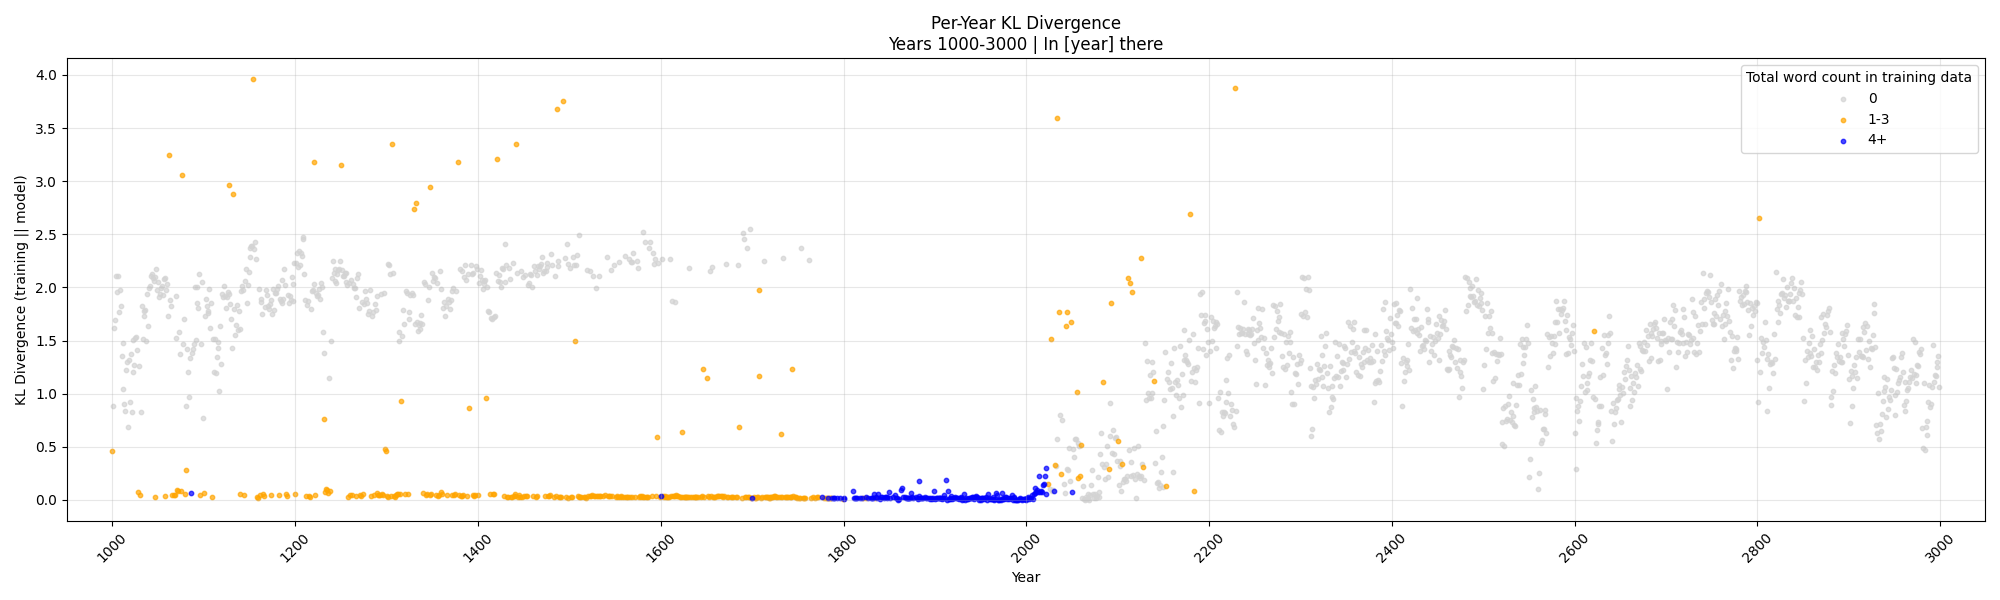
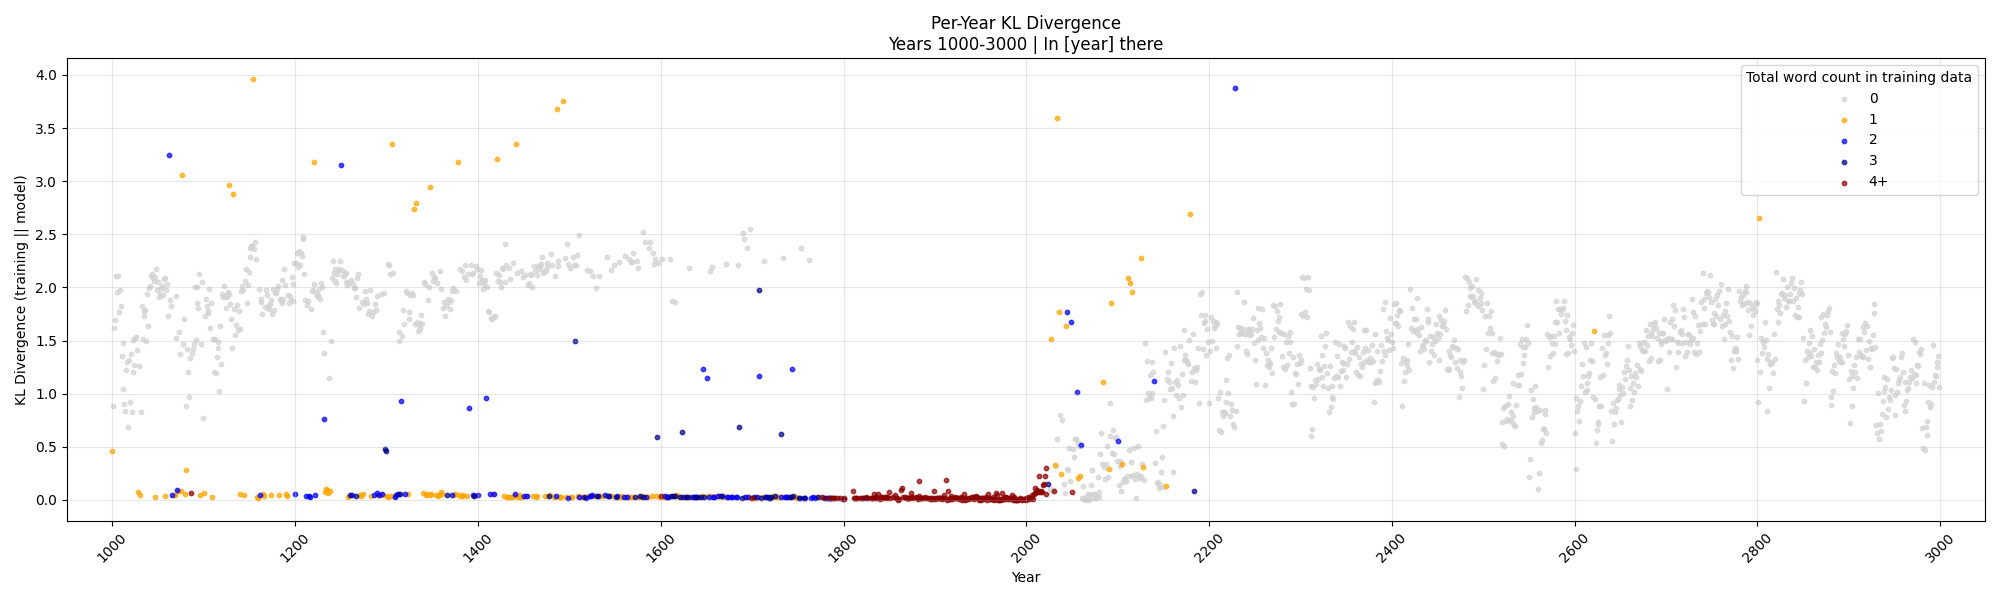
(disregard plots) looking at fallbacks now!

Changed region(s): [[0.124, 0.78, 0.527, 0.84], [0.93, 0.3, 0.961, 0.33]]

diff --git a/discover_fallback_distributions.py b/discover_fallback_distributions.py
@@ -1,0 +1,274 @@
+import json
+import scipy.stats
+
+OLMO_PREDICTIONS_PATH = "../olmo_predictions/1000-3000__was.were.is.are.will__suzeva_olmo2-1b-4xH100-2ndtry-step-10000__In_[year]_there/olmo_predictions.json"
+OLMO_TRAINING_DATA_FILE = "../olmo_training_data/1000-3000__was.were.is.are.will__allenai_OLMo-2-0425-1B/aggregated/steps0-10000/analytics/1000-3000__was.were.is.are.will__aggregated_results_steps0-10000.json"
+
+
+class KLDivergenceCaluclator:
+    def __init__(self):
+        self.OOD_years = [1001, 1002, 1003, 1004, 1005, 1006, 1007, 1008, 1009, 1010, 1011, 1012, 1013, 1014, 1015, 1016, 1017, 1018, 1019, 1020, 1021, 1022, 1023, 1024, 1025, 1026, 1027, 1029, 1031, 1032, 1033, 1034, 1035, 1036, 1037, 1038, 1039, 1040, 1041, 1042, 1043, 1044, 1045, 1046, 1048, 1049, 1050, 1051, 1052, 1053, 1054, 1055, 1056, 1058, 1059, 1060, 1061, 1063, 1064, 1069, 1070, 1073, 1074, 1077, 1078, 1080, 1082, 1083, 1084, 1085, 1087, 1088, 1089, 1090, 1091, 1092, 1093, 1094, 1095, 1097, 1098, 1099, 1101, 1102, 1103, 1104, 1105, 1106, 1107, 1108, 1110, 1111, 1112, 1113, 1114, 1115, 1116, 1117, 1118, 1119, 1120, 1121, 1122, 1123, 1124, 1125, 1126, 1128, 1129, 1130, 1131, 1133, 1134, 1135, 1136, 1137, 1138, 1139, 1141, 1142, 1143, 1145, 1146, 1147, 1148, 1149, 1150, 1151, 1152, 1153, 1155, 1156, 1157, 1160, 1162, 1163, 1164, 1167, 1168, 1169, 1170, 1171, 1172, 1173, 1175, 1176, 1177, 1178, 1179, 1180, 1181, 1183, 1184, 1185, 1186, 1187, 1188, 1189, 1192, 1193, 1194, 1195, 1196, 1197, 1198, 1199, 1201, 1202, 1203, 1204, 1205, 1206, 1207, 1208, 1209, 1210, 1211, 1213, 1214, 1217, 1218, 1219, 1221, 1223, 1224, 1225, 1226, 1227, 1228, 1229, 1230, 1231, 1237, 1239, 1240, 1241, 1242, 1243, 1244, 1245, 1246, 1247, 1248, 1249, 1251, 1252, 1253, 1254, 1255, 1256, 1257, 1259, 1261, 1263, 1264, 1265, 1267, 1268, 1269, 1270, 1273, 1275, 1276, 1277, 1278, 1280, 1281, 1282, 1284, 1285, 1287, 1288, 1289, 1294, 1297, 1301, 1303, 1304, 1307, 1313, 1314, 1317, 1318, 1319, 1321, 1322, 1324, 1325, 1326, 1328, 1329, 1331, 1333, 1334, 1335, 1336, 1337, 1338, 1339, 1341, 1342, 1345, 1346, 1350, 1351, 1352, 1353, 1355, 1358, 1359, 1362, 1363, 1364, 1365, 1367, 1368, 1369, 1370, 1372, 1373, 1376, 1380, 1383, 1385, 1386, 1387, 1389, 1392, 1393, 1395, 1398, 1399, 1401, 1402, 1403, 1404, 1405, 1406, 1407, 1408, 1410, 1411, 1412, 1414, 1415, 1417, 1419, 1420, 1422, 1423, 1424, 1425, 1426, 1427, 1429, 1430, 1431, 1434, 1435, 1438, 1443, 1447, 1449, 1451, 1455, 1456, 1457, 1458, 1459, 1461, 1462, 1465, 1466, 1467, 1468, 1469, 1470, 1471, 1472, 1474, 1475, 1476, 1480, 1481, 1484, 1487, 1488, 1495, 1497, 1499, 1501, 1504, 1505, 1507, 1508, 1510, 1519, 1523, 1526, 1529, 1532, 1541, 1546, 1549, 1554, 1561, 1565, 1567, 1569, 1570, 1574, 1575, 1581, 1583, 1587, 1588, 1591, 1593, 1594, 1597, 1601, 1610, 1612, 1615, 1631, 1654, 1656, 1671, 1684, 1690, 1691, 1694, 1698, 1713, 1734, 1753, 1762, 2026, 2028, 2029, 2032, 2033, 2037, 2039, 2041, 2042, 2044, 2046, 2047, 2048, 2051, 2052, 2053, 2054, 2056, 2058, 2061, 2062, 2063, 2064, 2065, 2066, 2067, 2068, 2069, 2070, 2071, 2072, 2073, 2074, 2075, 2076, 2077, 2078, 2079, 2080, 2081, 2082, 2083, 2085, 2086, 2087, 2088, 2089, 2091, 2092, 2094, 2095, 2096, 2097, 2098, 2099, 2101, 2102, 2103, 2104, 2106, 2107, 2108, 2109, 2110, 2112, 2114, 2115, 2117, 2118, 2119, 2120, 2121, 2122, 2123, 2124, 2126, 2127, 2129, 2130, 2131, 2132, 2133, 2134, 2135, 2136, 2137, 2138, 2139, 2141, 2142, 2143, 2144, 2145, 2146, 2147, 2148, 2149, 2150, 2151, 2152, 2154, 2155, 2156, 2157, 2158, 2159, 2160, 2161, 2162, 2163, 2164, 2165, 2166, 2167, 2168, 2169, 2170, 2171, 2172, 2173, 2174, 2175, 2176, 2177, 2178, 2180, 2181, 2182, 2184, 2185, 2186, 2187, 2188, 2189, 2190, 2191, 2192, 2193, 2194, 2195, 2196, 2197, 2198, 2199, 2200, 2201, 2202, 2203, 2204, 2205, 2206, 2207, 2208, 2209, 2210, 2211, 2212, 2213, 2214, 2215, 2216, 2217, 2218, 2219, 2220, 2221, 2222, 2223, 2224, 2225, 2226, 2227, 2229, 2230, 2231, 2232, 2233, 2234, 2235, 2236, 2237, 2238, 2239, 2240, 2241, 2242, 2243, 2244, 2245, 2246, 2247, 2248, 2249, 2250, 2251, 2252, 2253, 2254, 2255, 2256, 2257, 2258, 2259, 2260, 2261, 2262, 2263, 2264, 2265, 2266, 2267, 2268, 2269, 2270, 2271, 2272, 2273, 2274, 2275, 2276, 2277, 2278, 2279, 2280, 2281, 2282, 2283, 2284, 2285, 2286, 2287, 2288, 2289, 2290, 2291, 2292, 2293, 2294, 2295, 2296, 2297, 2298, 2299, 2300, 2301, 2302, 2303, 2304, 2305, 2306, 2307, 2308, 2309, 2310, 2311, 2312, 2313, 2314, 2315, 2316, 2317, 2318, 2319, 2320, 2321, 2322, 2323, 2324, 2325, 2326, 2327, 2328, 2329, 2330, 2331, 2332, 2333, 2334, 2335, 2336, 2337, 2338, 2339, 2340, 2341, 2342, 2343, 2344, 2345, 2346, 2347, 2348, 2349, 2350, 2351, 2352, 2353, 2354, 2355, 2356, 2357, 2358, 2359, 2360, 2361, 2362, 2363, 2364, 2365, 2366, 2367, 2368, 2369, 2370, 2371, 2372, 2373, 2374, 2375, 2376, 2377, 2378, 2379, 2380, 2381, 2382, 2383, 2384, 2385, 2386, 2387, 2388, 2389, 2390, 2391, 2392, 2393, 2394, 2395, 2396, 2397, 2398, 2399, 2400, 2401, 2402, 2403, 2404, 2405, 2406, 2407, 2408, 2409, 2410, 2411, 2412, 2413, 2414, 2415, 2416, 2417, 2418, 2419, 2420, 2421, 2422, 2423, 2424, 2425, 2426, 2427, 2428, 2429, 2430, 2431, 2432, 2433, 2434, 2435, 2436, 2437, 2438, 2439, 2440, 2441, 2442, 2443, 2444, 2445, 2446, 2447, 2448, 2449, 2450, 2451, 2452, 2453, 2454, 2455, 2456, 2457, 2458, 2459, 2460, 2461, 2462, 2463, 2464, 2465, 2466, 2467, 2468, 2469, 2470, 2471, 2472, 2473, 2474, 2475, 2476, 2477, 2478, 2479, 2480, 2481, 2482, 2483, 2484, 2485, 2486, 2487, 2488, 2489, 2490, 2491, 2492, 2493, 2494, 2495, 2496, 2497, 2498, 2499, 2500, 2501, 2502, 2503, 2504, 2505, 2506, 2507, 2508, 2509, 2510, 2511, 2512, 2513, 2514, 2515, 2516, 2517, 2518, 2519, 2520, 2521, 2522, 2523, 2524, 2525, 2526, 2527, 2528, 2529, 2530, 2531, 2532, 2533, 2534, 2535, 2536, 2537, 2538, 2539, 2540, 2541, 2542, 2543, 2544, 2545, 2546, 2547, 2548, 2549, 2550, 2551, 2552, 2553, 2554, 2555, 2556, 2557, 2558, 2559, 2560, 2561, 2562, 2563, 2564, 2565, 2566, 2567, 2568, 2569, 2570, 2571, 2572, 2573, 2574, 2575, 2576, 2577, 2578, 2579, 2580, 2581, 2582, 2583, 2584, 2585, 2586, 2587, 2588, 2589, 2590, 2591, 2592, 2593, 2594, 2595, 2596, 2597, 2598, 2599, 2600, 2601, 2602, 2603, 2604, 2605, 2606, 2607, 2608, 2609, 2610, 2611, 2612, 2613, 2614, 2615, 2616, 2617, 2618, 2619, 2620, 2622, 2623, 2624, 2625, 2626, 2627, 2628, 2629, 2630, 2631, 2632, 2633, 2634, 2635, 2636, 2637, 2638, 2639, 2640, 2641, 2642, 2643, 2644, 2645, 2646, 2647, 2648, 2649, 2650, 2651, 2652, 2653, 2654, 2655, 2656, 2657, 2658, 2659, 2660, 2661, 2662, 2663, 2664, 2665, 2666, 2667, 2668, 2669, 2670, 2671, 2672, 2673, 2674, 2675, 2676, 2677, 2678, 2679, 2680, 2681, 2682, 2683, 2684, 2685, 2686, 2687, 2688, 2689, 2690, 2691, 2692, 2693, 2694, 2695, 2696, 2697, 2698, 2699, 2700, 2701, 2702, 2703, 2704, 2705, 2706, 2707, 2708, 2709, 2710, 2711, 2712, 2713, 2714, 2715, 2716, 2717, 2718, 2719, 2720, 2721, 2722, 2723, 2724, 2725, 2726, 2727, 2728, 2729, 2730, 2731, 2732, 2733, 2734, 2735, 2736, 2737, 2738, 2739, 2740, 2741, 2742, 2743, 2744, 2745, 2746, 2747, 2748, 2749, 2750, 2751, 2752, 2753, 2754, 2755, 2756, 2757, 2758, 2759, 2760, 2761, 2762, 2763, 2764, 2765, 2766, 2767, 2768, 2769, 2770, 2771, 2772, 2773, 2774, 2775, 2776, 2777, 2778, 2779, 2780, 2781, 2782, 2783, 2784, 2785, 2786, 2787, 2788, 2789, 2790, 2791, 2792, 2793, 2794, 2795, 2796, 2797, 2798, 2799, 2800, 2801, 2803, 2804, 2805, 2806, 2807, 2808, 2809, 2810, 2811, 2812, 2813, 2814, 2815, 2816, 2817, 2818, 2819, 2820, 2821, 2822, 2823, 2824, 2825, 2826, 2827, 2828, 2829, 2830, 2831, 2832, 2833, 2834, 2835, 2836, 2837, 2838, 2839, 2840, 2841, 2842, 2843, 2844, 2845, 2846, 2847, 2848, 2849, 2850, 2851, 2852, 2853, 2854, 2855, 2856, 2857, 2858, 2859, 2860, 2861, 2862, 2863, 2864, 2865, 2866, 2867, 2868, 2869, 2870, 2871, 2872, 2873, 2874, 2875, 2876, 2877, 2878, 2879, 2880, 2881, 2882, 2883, 2884, 2885, 2886, 2887, 2888, 2889, 2890, 2891, 2892, 2893, 2894, 2895, 2896, 2897, 2898, 2899, 2900, 2901, 2902, 2903, 2904, 2905, 2906, 2907, 2908, 2909, 2910, 2911, 2912, 2913, 2914, 2915, 2916, 2917, 2918, 2919, 2920, 2921, 2922, 2923, 2924, 2925, 2926, 2927, 2928, 2929, 2930, 2931, 2932, 2933, 2934, 2935, 2936, 2937, 2938, 2939, 2940, 2941, 2942, 2943, 2944, 2945, 2946, 2947, 2948, 2949, 2950, 2951, 2952, 2953, 2954, 2955, 2956, 2957, 2958, 2959, 2960, 2961, 2962, 2963, 2964, 2965, 2966, 2967, 2968, 2969, 2970, 2971, 2972, 2973, 2974, 2975, 2976, 2977, 2978, 2979, 2980, 2981, 2982, 2983, 2984, 2985, 2986, 2987, 2988, 2989, 2990, 2991, 2992, 2993, 2994, 2995, 2996, 2997, 2998, 2999]
+        self.ID_years = set(range(1000, 3000)) - set(self.OOD_years)
+
+        with open(OLMO_PREDICTIONS_PATH, "r") as f:
+            self.olmo_predictions = json.load(f)
+        self.relative_olmo_predictions = self._get_relative_olmo_predictions()
+
+    # START OF HELPER FUNCTIONS
+
+    def _get_relative_olmo_predictions(self):
+        year_to_relative_predictions = {}
+        for year in self.olmo_predictions.keys():
+            if year == "metadata":
+                continue
+            
+            relative_predictions = self.olmo_predictions[year]["relative"]
+            past = relative_predictions[" was"] + relative_predictions[" were"]
+            present = relative_predictions[" is"] + relative_predictions[" are"]
+            future = relative_predictions[" will"]
+
+            year_to_relative_predictions[year] = {
+                "past": past,
+                "present": present,
+                "future": future
+            }
+        
+        return year_to_relative_predictions
+
+    def _calculate_kl_divergence_for_years(self, years_to_use, training_data_distributions):
+        """Helper function to calculate KL divergence for a given set of years"""
+        years_used = set()
+        kl_divergences = []
+        
+        for year in years_to_use:
+            assert year in training_data_distributions
+            training_data_distribution = training_data_distributions[year]
+            assert all(tense in training_data_distribution for tense in ["past", "present", "future"])
+            
+            if training_data_distribution["past"] + training_data_distribution["present"] + training_data_distribution["future"] == 0:
+                # skip years that we do not have data to compare to
+                continue
+
+            years_used.add(year)
+            
+            assert str(year) in self.relative_olmo_predictions
+            olmo_prediction_distribution = self.relative_olmo_predictions[str(year)]
+
+            kl_div_for_year = scipy.stats.entropy(
+                [training_data_distribution["past"], training_data_distribution["present"], training_data_distribution["future"]], 
+                [olmo_prediction_distribution["past"], olmo_prediction_distribution["present"], olmo_prediction_distribution["future"]]
+            )
+            kl_divergences.append(kl_div_for_year)
+        
+        assert len(kl_divergences) == len(years_used)
+        return sum(kl_divergences) / len(kl_divergences) if len(kl_divergences) != 0 else 0, years_used
+
+    def calculate_kl_divergence(self, training_data_distributions):
+        # calculate separate KL divergences for ID/OOD; only calculate if training data has any relative probabilities
+
+        # ID KL divergence
+        id_avg_kl, id_years_used = self._calculate_kl_divergence_for_years(self.ID_years, training_data_distributions)
+        
+        # OOD KL divergence  
+        ood_avg_kl, ood_years_used = self._calculate_kl_divergence_for_years(self.OOD_years, training_data_distributions)
+        
+        return {
+            'id_avg_kl': id_avg_kl,
+            'id_years_used': id_years_used,
+            'ood_avg_kl': ood_avg_kl, 
+            'ood_years_used': ood_years_used
+        }
+
+    # END OF HELPER FUNCTIONS
+
+    # START OF FALLBACK DISTRIBUTIONS OPTIONS
+    def co_occurrence_fallback(self):
+        with open(OLMO_TRAINING_DATA_FILE, "r") as f:
+            olmo_training_data = json.load(f)
+        
+        year_to_relative_counts = {}
+        relative_counts = olmo_training_data["co_occurrence_frequency_word_boundaries"]
+        for year in relative_counts.keys():
+            counts_per_year = relative_counts[year]
+            total_be_tense_counts = counts_per_year.get("was", 0) + counts_per_year.get("were", 0) + counts_per_year.get("is", 0) + counts_per_year.get("are", 0) + counts_per_year.get("will", 0)
+            if total_be_tense_counts == 0:
+                year_to_relative_counts[int(year)] = {
+                    "past": 0,
+                    "present": 0,
+                    "future": 0
+                }
+                continue
+
+            past = (counts_per_year.get("was", 0) + counts_per_year.get("were", 0)) / total_be_tense_counts
+            present = (counts_per_year.get("is", 0) + counts_per_year.get("are", 0)) / total_be_tense_counts
+            future = counts_per_year.get("will", 0) / total_be_tense_counts
+
+            year_to_relative_counts[int(year)] = {
+                "past": past,
+                "present": present,
+                "future": future
+            }
+        
+        return self.calculate_kl_divergence(year_to_relative_counts)
+
+    def avg_co_occurrence_fallback(self):
+        with open(OLMO_TRAINING_DATA_FILE, "r") as f:
+            olmo_training_data = json.load(f)
+
+
+        avg_relative_counts = {
+            "past": 0,
+            "present": 0,
+            "future": 0
+        }
+        relative_counts = olmo_training_data["co_occurrence_frequency_word_boundaries"]
+        for year in relative_counts.keys():
+            counts_per_year = relative_counts[year]
+            avg_relative_counts["past"] += counts_per_year.get("was", 0) + counts_per_year.get("were", 0)
+            avg_relative_counts["present"] += counts_per_year.get("is", 0) + counts_per_year.get("are", 0)
+            avg_relative_counts["future"] += counts_per_year.get("will", 0)
+
+        avg_year_to_relative_counts = {year:avg_relative_counts for year in range(1000, 3000)}
+        return self.calculate_kl_divergence(avg_year_to_relative_counts)
+
+
+
+
+
+
+    def exact_string_matching_fallback(self):
+        with open(OLMO_TRAINING_DATA_FILE, "r") as f:
+            olmo_training_data = json.load(f)
+        
+        year_to_relative_counts = {}
+        relative_counts = olmo_training_data["in_year_there_word_counts"]
+        for year in relative_counts.keys():
+            counts_per_year = relative_counts[year]
+            total_be_tense_counts = counts_per_year.get("was", 0) + counts_per_year.get("were", 0) + counts_per_year.get("is", 0) + counts_per_year.get("are", 0) + counts_per_year.get("will", 0)
+            if total_be_tense_counts == 0:
+                year_to_relative_counts[int(year)] = {
+                    "past": 0,
+                    "present": 0,
+                    "future": 0
+                }
+                continue
+
+            past = (counts_per_year.get("was", 0) + counts_per_year.get("were", 0)) / total_be_tense_counts
+            present = (counts_per_year.get("is", 0) + counts_per_year.get("are", 0)) / total_be_tense_counts
+            future = counts_per_year.get("will", 0) / total_be_tense_counts
+
+            year_to_relative_counts[int(year)] = {
+                "past": past,
+                "present": present,
+                "future": future
+            }
+        
+        return self.calculate_kl_divergence(year_to_relative_counts)
+
+    def avg_exact_string_matching_fallback(self):
+        with open(OLMO_TRAINING_DATA_FILE, "r") as f:
+            olmo_training_data = json.load(f)
+
+        avg_relative_counts = {
+            "past": 0,
+            "present": 0,
+            "future": 0
+        }
+        relative_counts = olmo_training_data["in_year_there_word_counts"]
+        for year in relative_counts.keys():
+            counts_per_year = relative_counts[year]
+            avg_relative_counts["past"] += counts_per_year.get("was", 0) + counts_per_year.get("were", 0)
+            avg_relative_counts["present"] += counts_per_year.get("is", 0) + counts_per_year.get("are", 0)
+            avg_relative_counts["future"] += counts_per_year.get("will", 0)
+
+        avg_year_to_relative_counts = {year:avg_relative_counts for year in range(1000, 3000)}
+        return self.calculate_kl_divergence(avg_year_to_relative_counts)
+
+
+    def uniform_distribution_fallback(self):
+        year_to_relative_counts = {year:{"past":1/3, "present":1/3, "future":1/3} for year in range(1000, 3000)}
+        return self.calculate_kl_divergence(year_to_relative_counts)
+
+    def be_verb_fallback(self):
+        with open(OLMO_TRAINING_DATA_FILE, "r") as f:
+            olmo_training_data = json.load(f)
+
+        tense_counts = olmo_training_data["[~tense~]_counts"]
+        year_to_relative_counts = {year:{"past":(tense_counts["was"] + tense_counts["were"]), "present":(tense_counts["is"] + tense_counts["are"]), "future":tense_counts["will"]} for year in range(1000, 3000)}
+        return self.calculate_kl_divergence(year_to_relative_counts)
+
+    
+
+    
+
+
+
+if __name__ == "__main__":
+    # python discover_fallback_distributions.py
+    kl_div = KLDivergenceCaluclator()
+    results = kl_div.co_occurrence_fallback()
+    print("\n\n co_occurrence_fallback")
+    print(f"ID Average KL: {results['id_avg_kl']}, Years used: {len(results['id_years_used'])}")
+    print(f"OOD Average KL: {results['ood_avg_kl']}, Years used: {len(results['ood_years_used'])}")
+
+    results = kl_div.avg_co_occurrence_fallback()
+    print("\n\n avg_co_occurrence_fallback")
+    print(f"ID Average KL: {results['id_avg_kl']}, Years used: {len(results['id_years_used'])}")
+    print(f"OOD Average KL: {results['ood_avg_kl']}, Years used: {len(results['ood_years_used'])}")
+
+    results = kl_div.exact_string_matching_fallback()
+    print("\n\n exact_string_matching_fallback")
+    print(f"ID Average KL: {results['id_avg_kl']}, Years used: {len(results['id_years_used'])}")
+    print(f"OOD Average KL: {results['ood_avg_kl']}, Years used: {len(results['ood_years_used'])}")
+
+    results = kl_div.avg_exact_string_matching_fallback()
+    print("\n\n avg_exact_string_matching_fallback")
+    print(f"ID Average KL: {results['id_avg_kl']}, Years used: {len(results['id_years_used'])}")
+    print(f"OOD Average KL: {results['ood_avg_kl']}, Years used: {len(results['ood_years_used'])}")
+
+    results = kl_div.uniform_distribution_fallback()
+    print("\n\n uniform_distribution_fallback")
+    print(f"ID Average KL: {results['id_avg_kl']}, Years used: {len(results['id_years_used'])}")
+    print(f"OOD Average KL: {results['ood_avg_kl']}, Years used: {len(results['ood_years_used'])}")
+
+    results = kl_div.be_verb_fallback()
+    print("\n\n be_verb_fallback")
+    print(f"ID Average KL: {results['id_avg_kl']}, Years used: {len(results['id_years_used'])}")
+    print(f"OOD Average KL: {results['ood_avg_kl']}, Years used: {len(results['ood_years_used'])}")
+
+
+
+"""
+RESULTS SO FAR:
+co_occurrence_fallback
+ID Average KL: 1.2006759112345704, Years used: 662
+OOD Average KL: 1.647814729332072, Years used: 1338
+
+
+ avg_co_occurrence_fallback
+ID Average KL: 1.591077257948462, Years used: 662
+OOD Average KL: 1.0103146167491242, Years used: 1338
+
+
+ exact_string_matching_fallback
+ID Average KL: 0.20895106012791084, Years used: 662
+OOD Average KL: 0, Years used: 0
+
+
+ avg_exact_string_matching_fallback
+ID Average KL: 0.12451804158940559, Years used: 662
+OOD Average KL: 0.07299906333999527, Years used: 1338
+
+
+ uniform_distribution_fallback
+ID Average KL: 2.1235497006726494, Years used: 662
+OOD Average KL: 1.4676410755051637, Years used: 1338
+
+
+ be_verb_fallback
+ID Average KL: 2.1155453031053546, Years used: 662
+OOD Average KL: 1.4135618672694528, Years used: 1338
+(time-env) suzeva@sphinx9:~/olmo_correlations$ 
+
+
+"""

diff --git a/kl_divergence_initial.py b/kl_divergence_initial.py
@@ -43,7 +43,7 @@ def plot_kl_divergence(years, kl_values, olmo_training_data, data_source="in_yea
         default_count_bins = [0, 1, 5000, 15000, 25000, 35000, 45000, 55000]
     else:  # "in_year_there_word_counts"
         title_suffix = "In [year] there"
-        default_count_bins = [0, 1, 4, 11]
+        default_count_bins = [0, 1, 2, 3, 4, 11]
     
     # Use provided count_bins or defaults
     if count_bins is None:
@@ -228,8 +228,8 @@ def get_relative_probabilities(olmo_predictions, olmo_training_data, data_source
 
 if __name__ == "__main__":
     # Configuration - modify these as needed
-    # DATA_SOURCE = "in_year_there_word_counts"  
-    DATA_SOURCE = "co_occurrence_frequency_word_boundaries"
+    DATA_SOURCE = "in_year_there_word_counts"  
+    # DATA_SOURCE = "co_occurrence_frequency_word_boundaries"
     
     # Custom bins for different data sources (optional - will use defaults if None)
     CUSTOM_COUNT_BINS = None  # e.g., [0, 10, 50, 100, 500] for co-occurrence
